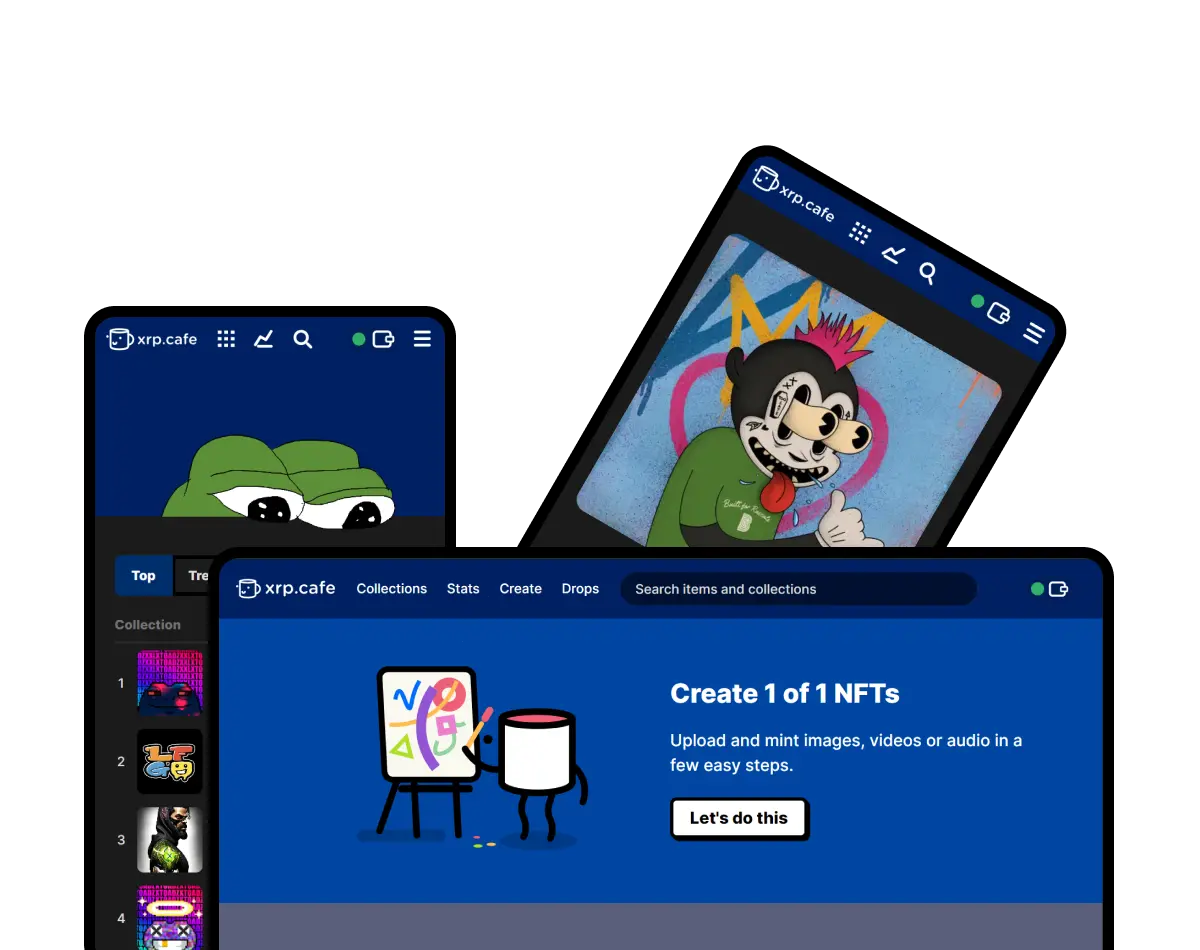
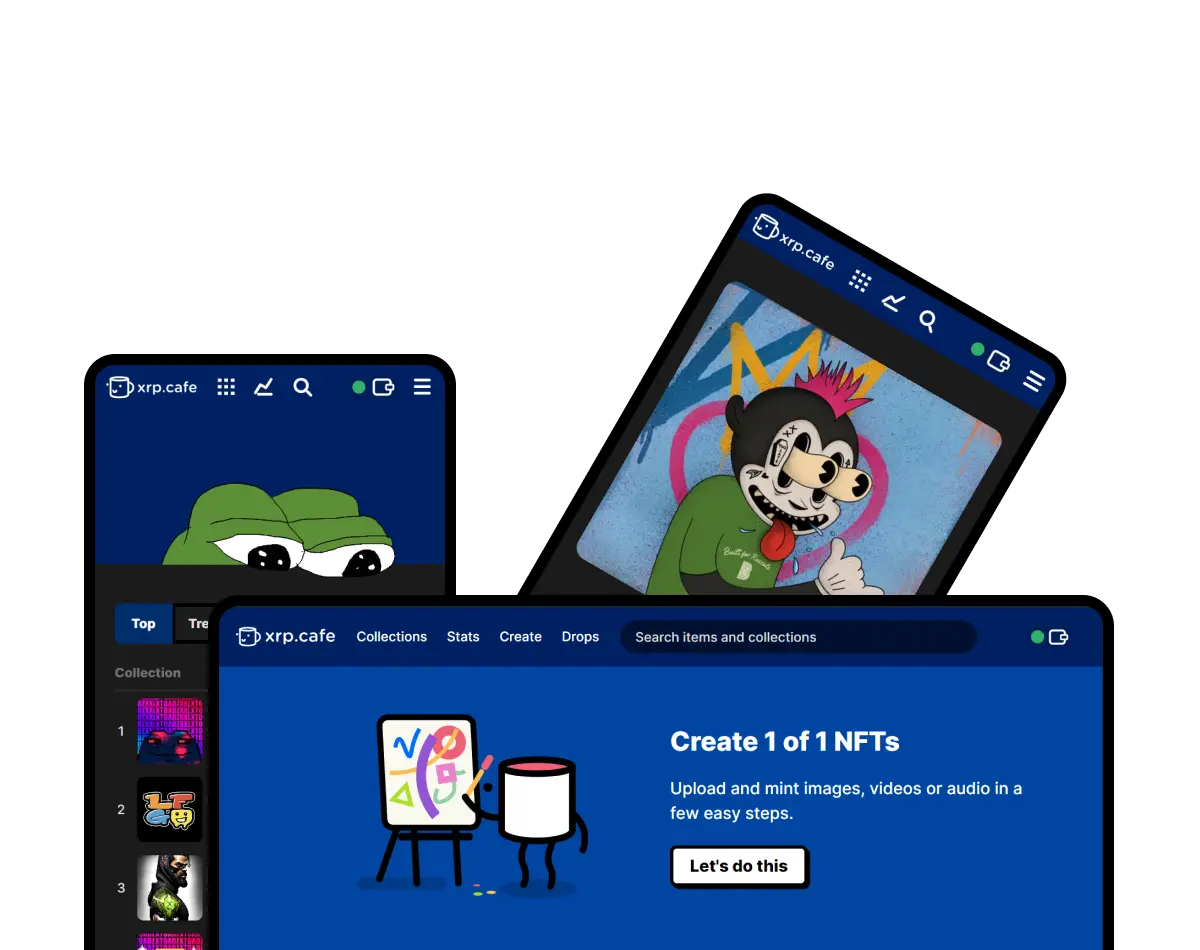
edit

diff --git a/css/style.css b/css/style.css
@@ -404,7 +404,8 @@ p {
 .is-lane {
   display: grid;
   background: var(--accent-500);
-  color: var(--text); }
+  color: var(--text);
+  place-items: center; }
   @media only screen and (min-width: 680px) {
     .is-lane {
       grid-template-columns: 1fr 1fr;
@@ -419,14 +420,20 @@ p {
     font-size: 1.1rem; }
   .is-lane .desc {
     max-width: 30rem;
-    padding: 1.5rem;
-    margin-right: 2rem; }
+    padding: 1.5rem; }
+    @media only screen and (max-width: 680px) {
+      .is-lane .desc {
+        width: 100%; } }
     @media only screen and (min-width: 1000px) {
       .is-lane .desc {
         margin-right: 6rem; } }
     .is-lane .desc .button {
       display: inline-flex;
       margin: 0.75rem 0; }
+      @media only screen and (max-width: 680px) {
+        .is-lane .desc .button {
+          display: flex;
+          justify-content: center; } }
   .is-lane .image {
     max-width: 700px;
     padding: 3rem 3rem 0 3rem; }

diff --git a/sass/style.scss b/sass/style.scss
@@ -102,6 +102,7 @@ p {
   display: grid;
   background: var(--accent-500);
   color: var(--text);
+  place-items: center;
   // padding: .75rem; 
   @media only screen and (min-width: 680px) {
     grid-template-columns: 1fr 1fr;
@@ -121,13 +122,20 @@ p {
   .desc {
     max-width: 30rem;
     padding: 1.5rem; 
-    margin-right: 2rem;
+    // margin-right: 2rem;
+    @media only screen and (max-width: 680px) {
+      width: 100%;
+    }
     @media only screen and (min-width: 1000px) {
       margin-right: 6rem;
     }
     .button {
       display: inline-flex;
       margin: 0.75rem 0;
+      @media only screen and (max-width: 680px) {
+        display: flex;
+        justify-content: center;
+      }
     }
   }
   .image {
